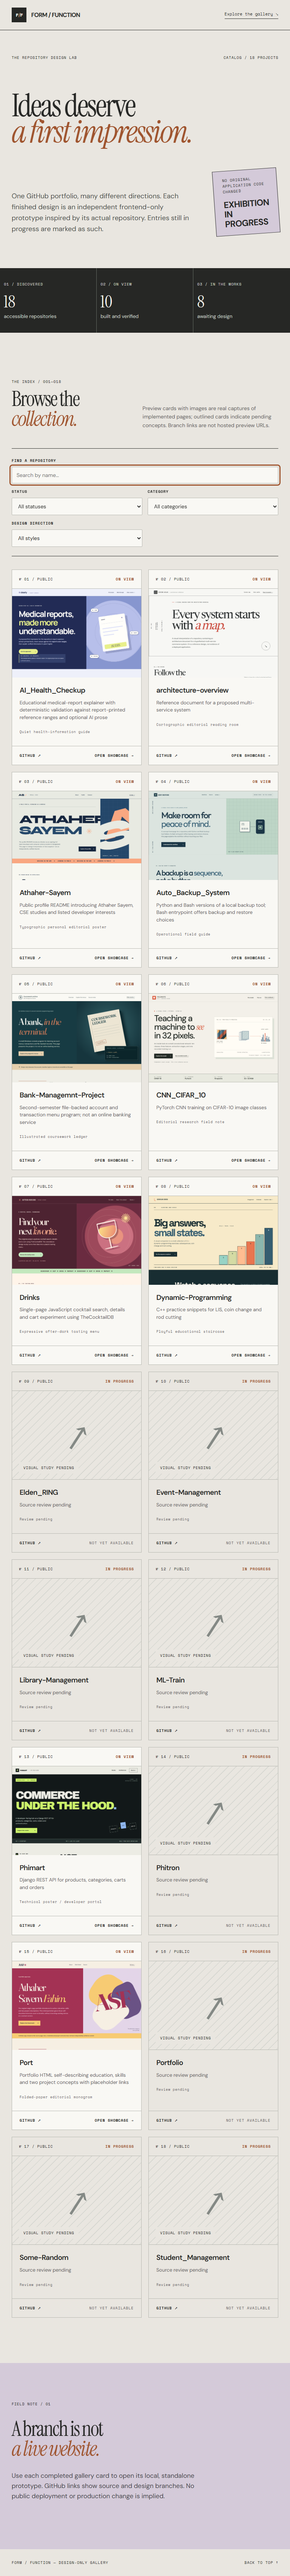
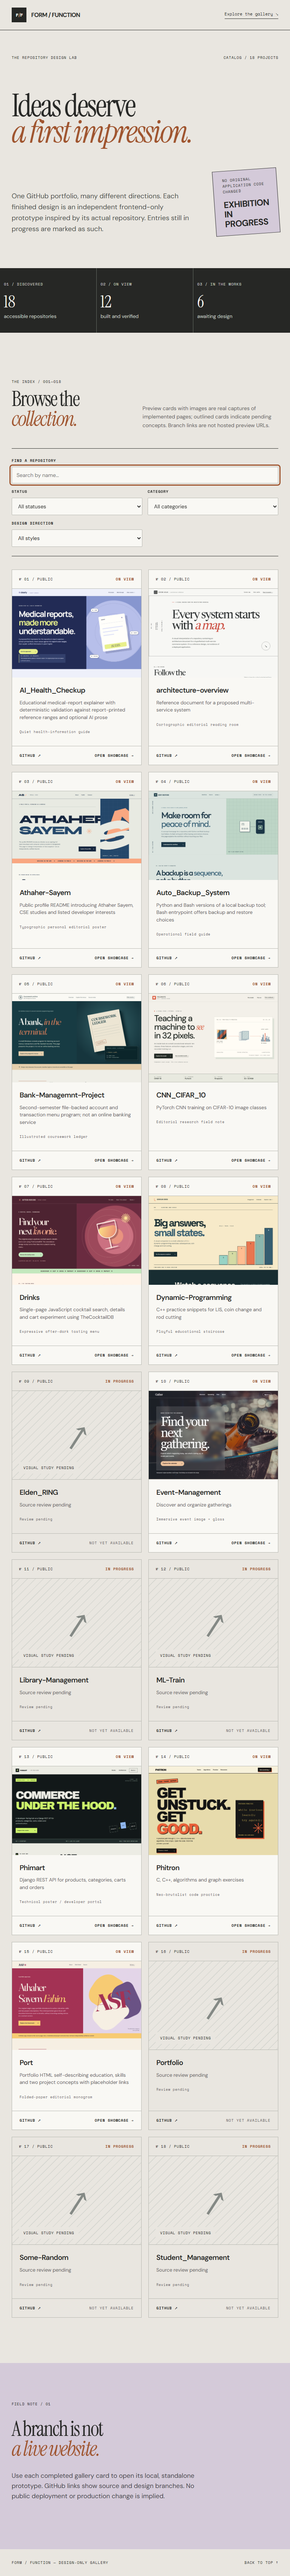
feat: index nine distinct priority homepages

Changed region(s): [[0.5, 0.5309, 0.9688, 0.5933], [0.5, 0.687, 0.9688, 0.7495]]

diff --git a/showcase-design/showcases/Event-Management/styles.css b/showcase-design/showcases/Event-Management/styles.css
@@ -1,0 +1,2 @@
+*{box-sizing:border-box}html{scroll-behavior:smooth}body{margin:0}a{color:inherit}a:focus-visible,summary:focus-visible{outline:3px solid #d35326;outline-offset:4px}img{max-width:100%}p{line-height:1.65}code{overflow-wrap:anywhere}.skip{position:absolute;top:-200px;left:16px;background:white;color:#111;padding:10px;z-index:20}.skip:focus{top:10px}.mast{width:100%;min-height:80px;padding:13px 5%;display:flex;align-items:center;justify-content:space-between;gap:20px}.mast a{text-decoration:none}.mast nav{display:flex;align-items:center;gap:clamp(12px,2vw,34px);font:600 .9rem Arial,sans-serif}.mast nav a:hover{text-decoration:underline;text-underline-offset:6px}.utility{font:700 .85rem Arial,sans-serif;white-space:nowrap}.footer{padding:40px 5%;background:#20282a;color:#f6f6ec;font:14px/1.6 Arial,sans-serif}.footer a{color:inherit}.footer p{max-width:54rem;margin:0 0 10px}.footer-inner{display:flex;justify-content:space-between;gap:20px;flex-wrap:wrap}@media(max-width:760px){.mast{flex-wrap:wrap;min-height:100px;gap:10px;padding:14px 5%}.mast nav{order:3;width:100%;overflow-x:auto;white-space:nowrap;padding:10px 0 4px;border-top:1px solid currentColor;font-size:.8rem}.mast .utility{font-size:.72rem}h1,h2,h3{overflow-wrap:break-word}}@media(prefers-reduced-motion:reduce){html{scroll-behavior:auto}}
+body.events{background:#f2ebe1;color:#242029;font-family:Arial,sans-serif} .events .mast{position:absolute;z-index:3;color:white;border-bottom:1px solid #ffffff66}.events .mast a{color:inherit}.events .brand{font-family:Georgia,serif;font-size:2rem;letter-spacing:-.08em}.events .utility{border:1px solid white;border-radius:3rem;padding:.65rem 1.2rem}.events .event-hero{min-height:790px;padding:175px max(6%,24px) 48px;color:white;background:linear-gradient(90deg,#141d23c9,#18212530),url('assets/event.jpg') center/cover;display:flex;flex-direction:column;justify-content:space-between}.events .glass{max-width:760px;padding:46px;background:#ffffff1e;border:1px solid #ffffff75;backdrop-filter:blur(16px);-webkit-backdrop-filter:blur(16px)}.events h1{font:normal clamp(4.5rem,10vw,10rem)/.86 Georgia,serif;letter-spacing:-.075em;margin:20px 0 32px}.events .glass p:not(.micro){font-size:1.15rem;max-width:30rem}.events .micro{font-size:.85rem;letter-spacing:.1em;text-transform:uppercase}.events .pill{display:inline-flex;gap:3rem;background:#eec49e;color:#231b22;text-decoration:none;border-radius:3rem;padding:1rem 1.4rem;margin-top:1.4rem;font-weight:700}.events .photo-credit{font-size:.75rem;color:#fff;margin-top:20px}.events .event-ribbon{padding:76px 6%;background:#f2ebe1}.events .event-ribbon h2,.events .event-next h2,.events .event-feature h2{font:normal clamp(3rem,6vw,6.5rem)/.95 Georgia,serif;letter-spacing:-.055em}.events .event-paths{display:grid;grid-template-columns:repeat(3,1fr);gap:14px}.events .event-paths a{display:flex;flex-direction:column;min-height:220px;justify-content:space-between;background:#ddd3c9;color:#211b23;padding:25px;text-decoration:none}.events .event-paths a:nth-child(2){background:#afc4b3}.events .event-paths a:nth-child(3){background:#dcb6ae}.events .event-paths b{font:normal 2rem Georgia,serif}.events .event-paths i{align-self:end}.events .event-feature{padding:110px 6%;display:grid;grid-template-columns:1.5fr 1fr;gap:4rem;align-items:end}.events .event-feature p:last-child{max-width:29rem;line-height:1.8}.events .event-next{background:#332a39;color:white;padding:100px 6%}.events .event-next p{max-width:33rem}.events .event-next a{color:#f7c99f}.events .event-archive,.events .event-about,.events .account-note{padding:60px 6%;border-top:1px solid #bcb1a7}.events .account-note{background:#e3ded5}.events .account-note a{color:#332a39}@media(max-width:720px){.events .mast{position:absolute;background:#20242dd9}.events .event-hero{min-height:720px;padding-top:175px}.events .glass{padding:23px}.events h1{font-size:clamp(3.4rem,14vw,6rem)}.events .event-paths,.events .event-feature{grid-template-columns:1fr}.events .event-paths a{min-height:135px}}

diff --git a/showcase-design/showcases/Phitron/styles.css b/showcase-design/showcases/Phitron/styles.css
@@ -1,0 +1,3 @@
+*{box-sizing:border-box}html{scroll-behavior:smooth}body{margin:0}a{color:inherit}a:focus-visible,summary:focus-visible{outline:3px solid #d35326;outline-offset:4px}img{max-width:100%}p{line-height:1.65}code{overflow-wrap:anywhere}.skip{position:absolute;top:-200px;left:16px;background:white;color:#111;padding:10px;z-index:20}.skip:focus{top:10px}.mast{width:100%;min-height:80px;padding:13px 5%;display:flex;align-items:center;justify-content:space-between;gap:20px}.mast a{text-decoration:none}.mast nav{display:flex;align-items:center;gap:clamp(12px,2vw,34px);font:600 .9rem Arial,sans-serif}.mast nav a:hover{text-decoration:underline;text-underline-offset:6px}.utility{font:700 .85rem Arial,sans-serif;white-space:nowrap}.footer{padding:40px 5%;background:#20282a;color:#f6f6ec;font:14px/1.6 Arial,sans-serif}.footer a{color:inherit}.footer p{max-width:54rem;margin:0 0 10px}.footer-inner{display:flex;justify-content:space-between;gap:20px;flex-wrap:wrap}@media(max-width:760px){.mast{flex-wrap:wrap;min-height:100px;gap:10px;padding:14px 5%}.mast nav{order:3;width:100%;overflow-x:auto;white-space:nowrap;padding:10px 0 4px;border-top:1px solid currentColor;font-size:.8rem}.mast .utility{font-size:.72rem}h1,h2,h3{overflow-wrap:break-word}}@media(prefers-reduced-motion:reduce){html{scroll-behavior:auto}}
+body.phitron{background:#f7f1db;color:#141414;font-family:Arial,sans-serif}.phitron .mast{border-bottom:3px solid #141414}.phitron .brand{font-weight:900;text-transform:uppercase;letter-spacing:-.09em;font-size:1.7rem}.phitron .utility,.phitron .ph-btn,.phitron .ph-practice a{background:#141414;color:#f5e9d2!important;text-decoration:none;padding:.85rem 1.2rem;box-shadow:5px 5px 0 #ef693e}.phitron .ph-hero{padding:65px 6% 100px;background:#e7dbac}.phitron .ph-sticker{display:inline-block;background:#ed6e42;border:3px solid #141414;transform:rotate(-4deg);padding:.45rem .8rem;font-weight:900}.phitron .ph-grid{display:grid;grid-template-columns:1.2fr .8fr;gap:5%;align-items:center}.phitron h1{font-size:clamp(5rem,11vw,12rem);line-height:.84;letter-spacing:-.09em;margin:35px 0;font-weight:900}.phitron h1 em{font-style:normal;color:#e85e37;text-shadow:5px 5px 0 #141414}.phitron .ph-grid p{max-width:29rem;font-size:1.15rem;line-height:1.55}.phitron .ph-btn{display:inline-flex;gap:4rem;margin:22px 0}.phitron .ph-console{height:420px;background:#171717;border:4px solid #111;color:#f6de76;padding:27px;box-shadow:12px 12px 0 #e85e37;position:relative;overflow:hidden}.phitron .ph-console pre{font-size:clamp(1.1rem,2.4vw,2rem);line-height:1.8}.phitron .ph-console small{position:absolute;bottom:20px}.phitron .ph-asterisk{position:absolute;font-size:10rem;right:-20px;bottom:10px;color:#f2653e}.phitron .ph-marquee{padding:12px;background:#141414;color:#f6df71;font-weight:900;letter-spacing:.07em;overflow:hidden;white-space:nowrap}.phitron .ph-tracks{padding:95px 6%}.phitron .ph-tracks h2,.phitron .ph-algo h2,.phitron .ph-practice h2{font-size:clamp(3rem,7vw,7rem);line-height:.95;letter-spacing:-.08em;margin:0 0 45px}.phitron .ph-links a{display:grid;grid-template-columns:1fr 1fr 30px;padding:24px 0;color:#141414;text-decoration:none;border-top:3px solid #141414;gap:12px}.phitron .ph-links a:last-child{border-bottom:3px solid}.phitron .ph-links span{font-size:2rem;font-weight:900}.phitron .ph-algo{padding:110px 6%;background:#f1aa89}.phitron .ph-algo p{max-width:36rem}.phitron .ph-practice{padding:100px 6%;background:#f5d85d}.phitron .ph-practice a{display:inline-block}.phitron .ph-resources{padding:70px 6%}.phitron .ph-resources p{max-width:38rem}@media(max-width:720px){.phitron .ph-grid{grid-template-columns:1fr}.phitron h1{font-size:clamp(4rem,15vw,7rem)}.phitron .ph-console{height:300px;margin-top:30px}.phitron .ph-links a{grid-template-columns:1fr 20px}.phitron .ph-links b{grid-column:1;grid-row:2}.phitron .ph-links i{grid-column:2;grid-row:1}}
+@media(max-width:380px){.phitron h1{font-size:3.25rem}}

diff --git a/showcase-design/showcases/Event-Management/index.html b/showcase-design/showcases/Event-Management/index.html
@@ -1,0 +1,8 @@
+<!doctype html>
+<html lang="en"><head><meta charset="utf-8"><meta name="viewport" content="width=device-width,initial-scale=1"><meta name="description" content="Gather — Events worth showing up for"><title>Gather — Events worth showing up for</title><link rel="stylesheet" href="styles.css"></head><body class="events"><a class="skip" href="#main">Skip to content</a><header class="mast" id="top"><a class="brand" href="#top">Gather</a><nav aria-label="Main navigation"><a href="#discover">Discover</a><a href="#upcoming">Upcoming</a><a href="#past">Past</a><a href="#about">About</a></nav><a class="utility" href="#account">Sign in <span aria-hidden="true">↗</span></a></header><main id="main"><section class="event-hero" id="discover"><div class="glass"><p class="micro">Make room for the moment</p><h1>Find your<br>next gathering.</h1><p>Explore what’s happening today, see what’s coming up, or revisit past events.</p><a class="pill" href="#upcoming">Explore the calendar <span aria-hidden="true">↗</span></a></div><p class="photo-credit">Background: original repository’s event image. Event listings are not loaded in this design.</p></section>
+        <section id="upcoming" class="event-ribbon"><h2>Where to next?</h2><div class="event-paths"><a href="#today"><span>Today</span><b>Find today’s events</b><i>↗</i></a><a href="#soon"><span>Coming up</span><b>Plan ahead</b><i>↗</i></a><a href="#past"><span>Past</span><b>Browse the archive</b><i>↗</i></a></div></section>
+        <section id="today" class="event-feature"><div><p class="micro">A place for every kind of gathering</p><h2>Be there<br>when it happens.</h2></div><p>The Django app has event lists for today, upcoming events and past events, plus event search and RSVP routes. Open the running app to see actual listings; this static homepage does not contain live dates or registrations.</p></section>
+        <section id="soon" class="event-next"><p>Planning something of your own?</p><h2>Bring people together.</h2><p>Event creation and participant management exist in the source app; those actions require the running Django service.</p><a href="https://github.com/Athaher-Sayem/Event-Management/blob/Shocase_design/events/urls.py" target="_blank" rel="noopener noreferrer">See event routes in source ↗</a></section>
+        <section id="past" class="event-archive"><h2>Every event has a story.</h2><p>Browse past gatherings through the app’s Past Events route when the backend is running.</p></section>
+        <section id="about" class="event-about"><h2>Made for getting together.</h2><p>Discover, organize and take part: this is the welcoming front door to the event-management project.</p></section>
+        <section id="account" class="account-note"><h2>Account access</h2><p>Sign in and sign up are supported by the Django application, not by this standalone design preview. No credentials are collected here.</p><a href="https://github.com/Athaher-Sayem/Event-Management/blob/Shocase_design/Management_Team/urls.py" target="_blank" rel="noopener noreferrer">Inspect sign-in and sign-up routes ↗</a></section></main><footer class="footer"><p>Design preview. Actual event listings, registration and sign-in require the running Django application.</p><div class="footer-inner"><a href="https://github.com/Athaher-Sayem/Event-Management/tree/Shocase_design" target="_blank" rel="noopener noreferrer">Original repository ↗</a><a href="#top">Back to top ↑</a></div></footer></body></html>

diff --git a/showcase-design/showcases/Phitron/index.html b/showcase-design/showcases/Phitron/index.html
@@ -1,0 +1,7 @@
+<!doctype html>
+<html lang="en"><head><meta charset="utf-8"><meta name="viewport" content="width=device-width,initial-scale=1"><meta name="description" content="Phitron — Practice makes progress"><title>Phitron — Practice makes progress</title><link rel="stylesheet" href="styles.css"></head><body class="phitron"><a class="skip" href="#main">Skip to content</a><header class="mast" id="top"><a class="brand" href="#top">Phitron</a><nav aria-label="Main navigation"><a href="#tracks">Tracks</a><a href="#algorithms">Algorithms</a><a href="#practice">Practice</a><a href="#resources">Resources</a></nav><a class="utility" href="#practice">Start practicing ↗</a></header><main id="main"><section class="ph-hero"><span class="ph-sticker">CODE / THINK / REPEAT</span><div class="ph-grid"><div><h1>GET<br>UNSTUCK.<br>GET <em>GOOD.</em></h1><p>A practical path through C, C++, data structures and algorithms. Pick a topic. Open the code. Work the problem yourself.</p><a href="#tracks" class="ph-btn">Choose a track <span>↘</span></a></div><div class="ph-console" aria-label="Illustrative code practice prompt"><span>PHITRON / PRACTICE</span><pre>while (curious) {<br>  learn();<br>  try_again();<br>}</pre><div class="ph-asterisk" aria-hidden="true">✳</div><small>Illustration, not a code runner</small></div></div></section>
+        <div class="ph-marquee" aria-hidden="true">PROBLEMS ARE THE POINT · PROBLEMS ARE THE POINT ·</div>
+        <section id="tracks" class="ph-tracks"><h2>Pick your<br>next rabbit hole.</h2><div class="ph-links"><a href="https://github.com/Athaher-Sayem/Phitron/tree/Shocase_design/Data%20Structure" target="_blank" rel="noopener noreferrer"><span>Data structures</span><b>Lists, trees & more</b><i>↗</i></a><a href="https://github.com/Athaher-Sayem/Phitron/tree/Shocase_design/Algorithm" target="_blank" rel="noopener noreferrer"><span>Algorithms</span><b>Search, sort, solve</b><i>↗</i></a><a href="https://github.com/Athaher-Sayem/Phitron/tree/Shocase_design/GRAPH_ASSINGMENT-01" target="_blank" rel="noopener noreferrer"><span>Graph practice</span><b>Find your way through</b><i>↗</i></a></div></section>
+        <section id="algorithms" class="ph-algo"><h2>Less watching.<br>More solving.</h2><p>The repository contains algorithm exercises, graph assignments, tree work and contest folders. It’s a collection of practice code, not an online judge or paid course.</p></section>
+        <section id="practice" class="ph-practice"><span>READY WHEN YOU ARE</span><h2>Open a problem.<br>Try a solution.</h2><a href="https://github.com/Athaher-Sayem/Phitron/tree/Shocase_design/Practice%20Problem" target="_blank" rel="noopener noreferrer">Browse practice problems ↗</a></section>
+        <section id="resources" class="ph-resources"><h2>Keep learning.</h2><p>Find C and C++ examples, assignments and the graph-algorithm PDF in the original repository. Downloads and exercises live there; this page does not execute submitted code.</p><a href="https://github.com/Athaher-Sayem/Phitron/tree/Shocase_design" target="_blank" rel="noopener noreferrer">Explore the repository ↗</a></section></main><footer class="footer"><p>A guide to the practice repository; no code runs on this page.</p><div class="footer-inner"><a href="https://github.com/Athaher-Sayem/Phitron/tree/Shocase_design" target="_blank" rel="noopener noreferrer">Original repository ↗</a><a href="#top">Back to top ↑</a></div></footer></body></html>

diff --git a/showcase-design/data.js b/showcase-design/data.js
@@ -147,17 +147,17 @@ window.SHOWCASE_PROJECTS = [
     "name": "Event-Management",
     "url": "https://github.com/Athaher-Sayem/Event-Management",
     "visibility": "public",
-    "category": "Review pending",
-    "purpose": "Source review pending",
-    "style": null,
-    "palette": null,
-    "fonts": null,
-    "status": "pending",
-    "showcasePath": null,
-    "screenshot": null,
-    "branchUrl": null,
-    "commitUrl": null,
-    "limitation": null
+    "category": "Event discovery",
+    "purpose": "Discover and organize gatherings",
+    "style": "Immersive event image + glass",
+    "palette": "Charcoal / rose / mint",
+    "fonts": "Georgia / Arial",
+    "status": "completed",
+    "showcasePath": "showcases/Event-Management/index.html",
+    "screenshot": "showcases/Event-Management/assets/screenshots/desktop.png",
+    "branchUrl": "https://github.com/Athaher-Sayem/Event-Management/tree/Shocase_design",
+    "commitUrl": "https://github.com/Athaher-Sayem/Event-Management/commit/3652425c31c266c93a943e7f96d5a8e4fc05165a",
+    "limitation": "Sign-in is a source-backed preview; no live events or registration."
   },
   {
     "name": "Library-Management",
@@ -211,17 +211,17 @@ window.SHOWCASE_PROJECTS = [
     "name": "Phitron",
     "url": "https://github.com/Athaher-Sayem/Phitron",
     "visibility": "public",
-    "category": "Review pending",
-    "purpose": "Source review pending",
-    "style": null,
-    "palette": null,
-    "fonts": null,
-    "status": "pending",
-    "showcasePath": null,
-    "screenshot": null,
-    "branchUrl": null,
-    "commitUrl": null,
-    "limitation": null
+    "category": "Coding practice",
+    "purpose": "C, C++, algorithms and graph exercises",
+    "style": "Neo-brutalist code practice",
+    "palette": "Ink / tangerine / yellow",
+    "fonts": "Arial",
+    "status": "completed",
+    "showcasePath": "showcases/Phitron/index.html",
+    "screenshot": "showcases/Phitron/assets/screenshots/desktop.png",
+    "branchUrl": "https://github.com/Athaher-Sayem/Phitron/tree/Shocase_design",
+    "commitUrl": "https://github.com/Athaher-Sayem/Phitron/commit/736b025e0fc9bf18992580761e16615e39540bb6",
+    "limitation": "No online judge or execution service."
   },
   {
     "name": "Port",

diff --git a/showcase-design/showcases/Event-Management/README.md b/showcase-design/showcases/Event-Management/README.md
@@ -1,0 +1,5 @@
+# Event-Management — standalone homepage design
+
+Open `index.html` directly or serve this folder with a static web server. Navigation links move between real sections; external links open repository source. This page does not collect credentials, take payments or use a backend. Source evidence: `events/urls.py`, `Management_Team/urls.py`, `events/templates/Home.html`. Illustrated or sample content is labelled near affected features. Only this `showcase-design/` folder was added to the original repository.
+
+Full-page desktop, tablet and mobile captures are stored in `assets/screenshots/`.

diff --git a/showcase-design/showcases/Phitron/README.md b/showcase-design/showcases/Phitron/README.md
@@ -1,0 +1,5 @@
+# Phitron — standalone homepage design
+
+Open `index.html` directly or serve this folder with a static web server. Navigation links move between real sections; external links open repository source. This page does not collect credentials, take payments or use a backend. Source evidence: `Algorithm/`, `Data Structure/`, `Practice Problem/`, `GRAPH_ASSINGMENT-01/`. Illustrated or sample content is labelled near affected features. Only this `showcase-design/` folder was added to the original repository.
+
+Full-page desktop, tablet and mobile captures are stored in `assets/screenshots/`.
